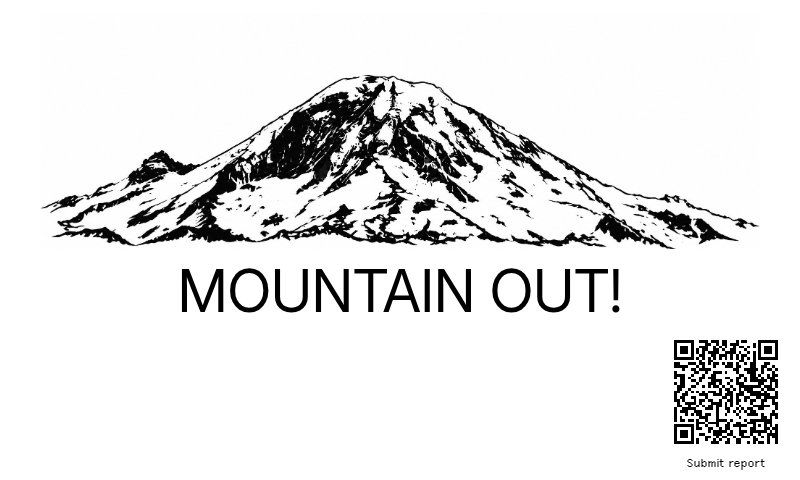
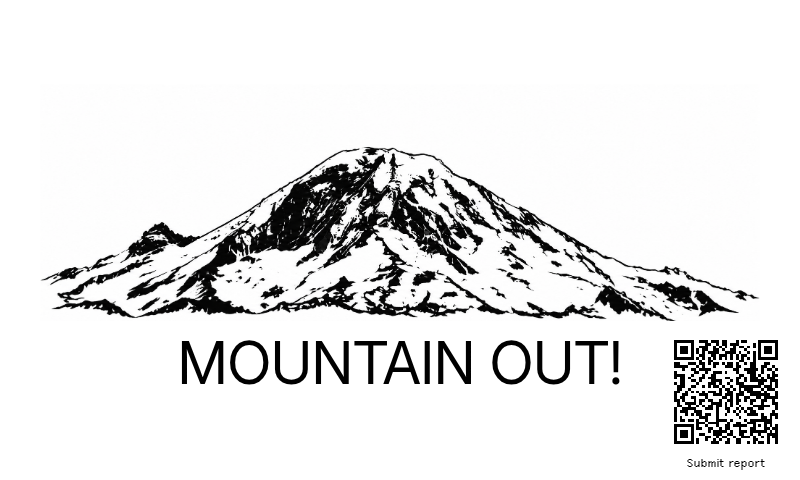
Align verdict top with QR and lower artwork together

Changed region(s): [[0.0625, 0.1562, 0.9375, 0.8125]]

diff --git a/tools/check_layouts.py b/tools/check_layouts.py
@@ -57,9 +57,8 @@ def main():
                                 assert abs(mountain['height'] / content['height'] - .52) < .005, case
                                 gap = verdict['y'] - mountain['y'] - mountain['height']
                                 assert 0 < gap <= content['height'] * .05, (case, gap)
-                                assert abs(verdict['height'] - text['height']) < 1, case
+                                assert abs(text['y'] - verdict['y']) < 1, case
                                 assert abs(text['x'] + text['width']/2 - content['x'] - content['width']/2) < 1, case
-                                assert abs(text['y'] + text['height']/2 - verdict['y'] - verdict['height']/2) < 1, case
                                 assert page.locator('[data-mountain-region] > svg').get_attribute('preserveAspectRatio') == 'xMidYMax meet', case
                                 for item in metrics:
                                     assert item['x'] >= -1 and item['y'] >= -1 and item['x']+item['w'] <= view['width']+1 and item['y']+item['h'] <= view['height']+1, (case,item,view)
@@ -70,6 +69,7 @@ def main():
                                     decoded = zxingcpp.read_barcode(Image.open(io.BytesIO(qr.screenshot())))
                                     assert decoded and decoded.text == URL, (case, 'QR did not decode')
                                     anchor=page.locator('[data-feedback-qr]').bounding_box()
+                                    assert abs(text['y'] - anchor['y']) < 1, (case, text, anchor)
                                     # Approximate one-inch square including the quiet zone:
                                     # OG ~125 ppi; X ~176 ppi, with native 1.8x scaling.
                                     if device is None or device == 'v2':

diff --git a/README.md b/README.md
@@ -261,8 +261,9 @@ The optional QR appears **only on Full**, anchored with native `absolute bottom-
 right--0` utilities inside the framework content area. A native small label below
 it reads **Submit report**. The illustration occupies the upper 52% of the content area,
 with its SVG anchored to the bottom of that region. The centered verdict follows
-immediately with a small native gap, rather than sitting in a separate bottom
-third. The fully clouded state also trims the blank tail of the cloud artwork. Equal native padding on both
+immediately with a small native gap. The illustration and verdict form a
+bottom-aligned stack: on Full, the top of the verdict aligns with the top of the
+QR. A matching footer footprint preserves placement when feedback is disabled. The fully clouded state also trims the blank tail of the cloud artwork. Equal native padding on both
 sides of the verdict accommodates the independently anchored QR without moving
 the text off center. Half Horizontal, Half Vertical and Quadrant never render the QR or caption.
 TRMNL's native `qr_code` Liquid filter draws it inline, avoiding an extra SVG image
